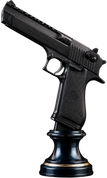
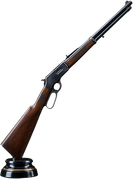
Bishop is now a Winchester Model 1894 lever-action rifle on a diagonal

diff --git a/style.css b/style.css
@@ -66,9 +66,9 @@ main{max-width:1180px;margin:0 auto;padding:22px 16px 60px}
 .sq.light .coord{color:#80603d}.sq.dark .coord{color:#e6d5ad}
 .piece{position:relative;z-index:2;object-fit:contain;object-position:bottom;pointer-events:none;filter:drop-shadow(0 4px 3px rgba(0,0,0,.5))}
 .t-k{height:98%;max-width:92%}.t-q{height:94%;max-width:92%}.t-r{height:86%;max-width:92%}
-.t-b{height:82%;max-width:96%}.t-n{height:84%;max-width:96%}.t-p{height:72%;max-width:80%}
-/* pistol, revolver and cartridge are shorter pieces: center them in the square instead of sitting on the bottom edge */
-.piece.t-b,.piece.t-n,.piece.t-p{align-self:center;margin-top:3%}
+.t-b{height:92%;max-width:96%}.t-n{height:84%;max-width:96%}.t-p{height:72%;max-width:80%}
+/* revolver and cartridge are shorter pieces: center them in the square instead of sitting on the bottom edge */
+.piece.t-n,.piece.t-p{align-self:center;margin-top:3%}
 .piece.ghost{position:fixed;z-index:1000;pointer-events:none;object-fit:contain;max-width:none;filter:drop-shadow(0 10px 8px rgba(0,0,0,.5))}
 
 /* bars */
